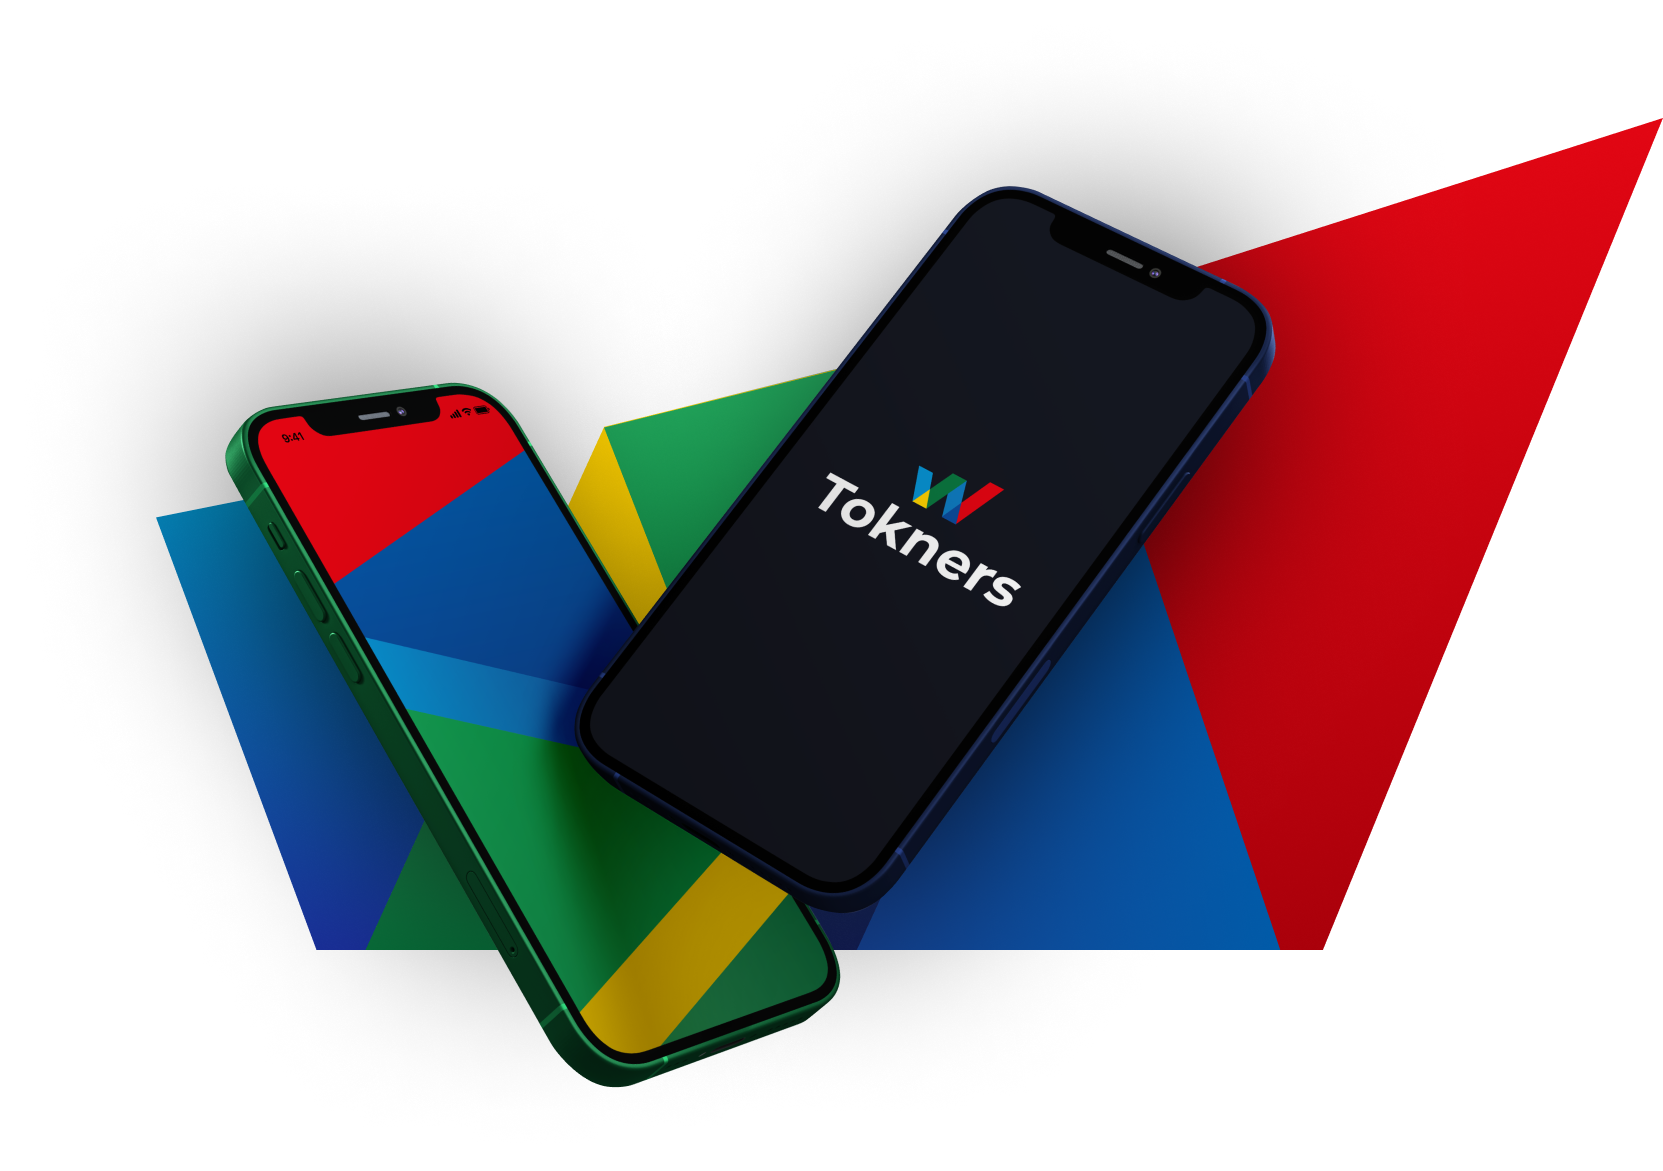
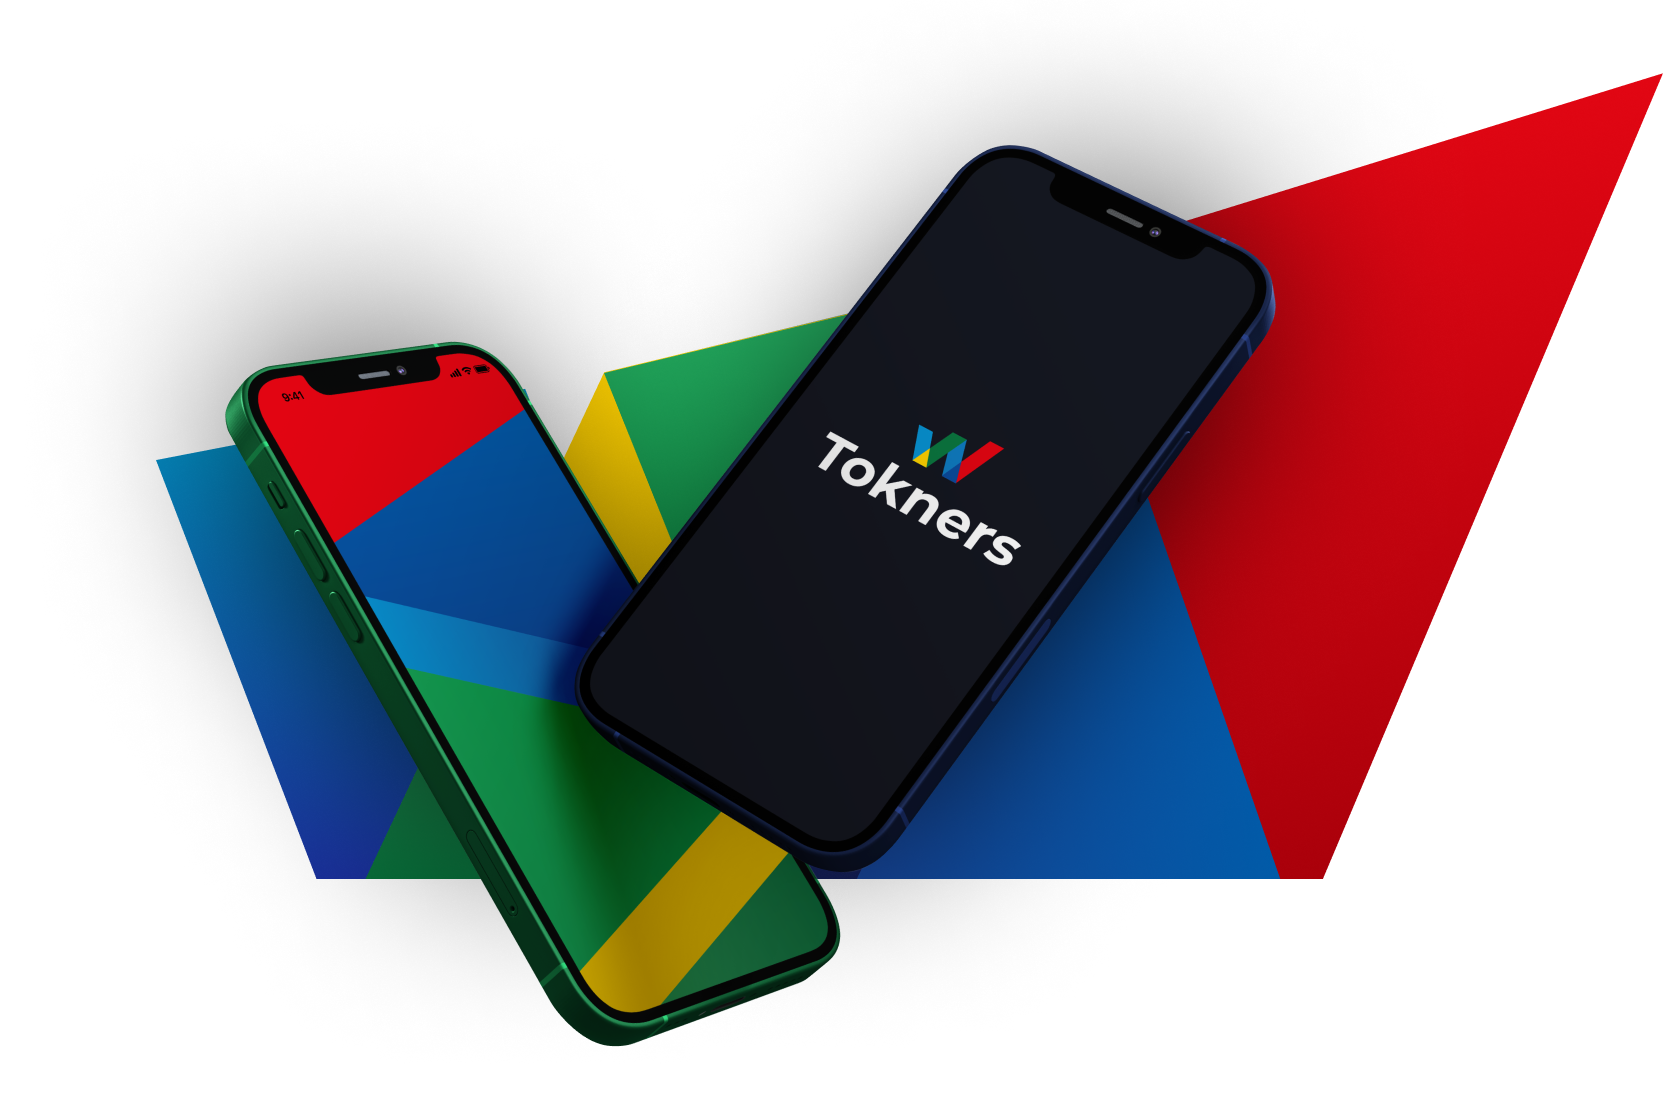
Modified Header
Adaptive header styling

diff --git a/src/components/Main-Page/Hero/Hero.module.scss b/src/components/Main-Page/Hero/Hero.module.scss
@@ -1,17 +1,102 @@
 @import './../../../assets/style/colors';
-@import './../../../assets/style/container';
+@import './../../../assets/style/mixin';
 
 .hero {
-  &__image {
-    position: relative;
+  overflow: hidden;
+  padding-top: 60px;
+  padding-bottom: 44px;
+
+  @include for-size(laptop) {
+    padding-bottom: 205px;
+  }
+
+  @include for-size(desktop) {
+    padding-top: 90px;
+    padding-bottom: 430px;
+  }
+
+  &__text {
+    max-width: 562px;
+
+    @include for-size(laptop) {
+      padding-top: 80px;
+    }
+
+    @include for-size(desktop) {
+      padding-top: 130px;
+      padding-left: 173px;
+    }
+
+    &_container {
+      @include for-size(phone) {
+        max-width: 480px;
+        margin: 0 auto;
+      }
+    }
+  }
+
+  &__container {
     margin: 0 auto;
-    background: url('./../../../assets/images/png/hero-photo.png');
-    background-size: cover;
-    background-repeat: no-repeat;
-    background-position: calc(50% + 77px) center;
-    transform: translate(0px, -118px);
-    height: 529px;
-    max-width: 767.98px;
+    padding: 0 20px;
+
+    @include for-size(tablet) {
+      max-width: 768px;
+    }
+
+    @include for-size(laptop) {
+      max-width: 1280px;
+      position: relative;
+      display: flex;
+      justify-content: space-between;
+    }
+
+    @include for-size(desktop) {
+      max-width: 1920px;
+      position: relative;
+      display: flex;
+      justify-content: space-between;
+    }
+  }
+
+  &__image_container {
+    @include for-size(phone) {
+      position: relative;
+      height: 382px;
+    }
+
+    @include for-size(tablet) {
+      position: relative;
+      height: 459px;
+    }
+  }
+
+  &__image {
+    @include for-size(phone) {
+      position: absolute;
+      top: -70px;
+      height: 430px;
+      object-fit: cover;
+      object-position: 30% 0%;
+      scale: 1.11;
+    }
+
+    @include for-size(tablet) {
+      scale: 1.2;
+      position: relative;
+      transform: translate(40px, -80px);
+    }
+
+    @include for-size(laptop) {
+      scale: 1.43;
+      position: relative;
+      transform: translate(45px, 85px);
+    }
+
+    @include for-size(desktop) {
+      scale: 1.4;
+      position: relative;
+      transform: translate(65px, 23px);
+    }
   }
 
   &__blue {
@@ -20,14 +105,22 @@
     font-weight: 700;
     font-size: 14px;
     line-height: 24px;
-
     background: $gradient-blue-color;
     -webkit-background-clip: text;
     -webkit-text-fill-color: transparent;
     background-clip: text;
-    text-fill-color: transparent;
 
     padding-bottom: 10px;
+
+    @include for-size(laptop) {
+      font-size: 16px;
+      line-height: 24px;
+    }
+
+    @include for-size(desktop) {
+      font-size: 16px;
+      line-height: 24px;
+    }
   }
 
   &__heading {
@@ -36,8 +129,21 @@
     font-size: 36px;
     line-height: 40px;
     letter-spacing: -0.02em;
-
     padding-bottom: 20px;
+
+    @include for-size(laptop) {
+      width: 564px;
+      font-size: 48px;
+      line-height: 54px;
+      padding-bottom: 30px;
+    }
+
+    @include for-size(desktop) {
+      width: 564px;
+      font-size: 48px;
+      line-height: 54px;
+      padding-bottom: 30px;
+    }
   }
 
   &__paragraph {
@@ -46,8 +152,20 @@
     font-size: 14px;
     line-height: 22px;
     opacity: 0.6;
-
+    max-width: 527px;
     padding-bottom: 30px;
+
+    @include for-size(laptop) {
+      font-size: 16px;
+      line-height: 24px;
+      padding-bottom: 40px;
+    }
+
+    @include for-size(desktop) {
+      font-size: 16px;
+      line-height: 24px;
+      padding-bottom: 40px;
+    }
   }
 
   &__button {
@@ -55,7 +173,7 @@
     background: $green-color;
     box-shadow: 0px 15px 25px rgba(34, 167, 93, 0.25);
     border-radius: 52px;
-    padding: 15px 29px 16px 30px;
+    padding: 15px 35px;
     border: none;
     cursor: pointer;
 

diff --git a/src/components/Main-Page/Hero/Hero.jsx b/src/components/Main-Page/Hero/Hero.jsx
@@ -1,10 +1,11 @@
 import scss from './Hero.module.scss';
+import heroImgage from './../../../assets/images/png/hero-photo.png';
 
 export const Hero = hero => {
   return (
     <section className={scss.hero}>
-      <div className={scss.container}>
-        <div className={scss.hero__text}>
+      <div className={scss.hero__container}>
+        <div className={[scss.hero__text, scss.hero__text_container].join(' ')}>
           <p className={scss.hero__blue}>At Tokners we are</p>
           <h1 className={scss.hero__heading}>
             Reimagining social media through the power of the blockchain.
@@ -19,8 +20,10 @@ export const Hero = hero => {
             Learn More
           </button>
         </div>
+        <div className={scss.hero__image_container}>
+          <img className={scss.hero__image} src={heroImgage} alt="Hero Prohe" />
+        </div>
       </div>
-      <div className={scss.hero__image}></div>
     </section>
   );
 };
